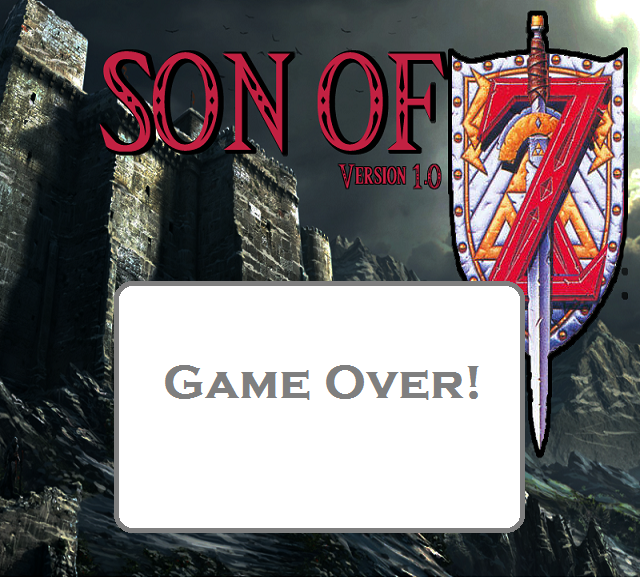
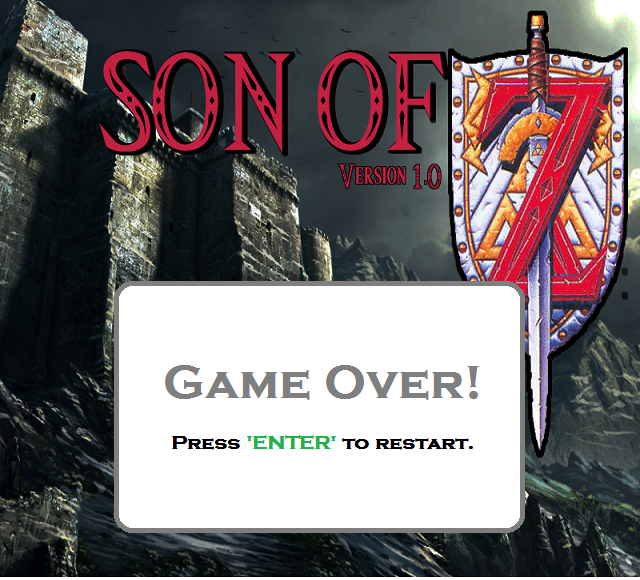
added additional menu options, tutorial screen, You died screen, option to hit 'ENTER' to restart game if your game is over.

Changed region(s): [[0.25, 0.7448, 0.75, 0.7759]]

diff --git a/dev/src/Game.java b/dev/src/Game.java
@@ -30,9 +30,9 @@ public class Game extends BasicGame {
     Image menu;
     Image gameover;
     Image startButton;
-    
-    
-    
+    Image dieScreen;
+    Image tutorial;
+    boolean restart;
     int menuState;
     String enemyRef = "data/enemies.png";
 	int numCrosses;
@@ -74,6 +74,7 @@ public class Game extends BasicGame {
 	
 	
 	public void init(GameContainer container) throws SlickException {
+		restart = false;
 		directionX = 1;
 		enemyX = 32;
 		enemyY = 32;
@@ -83,9 +84,10 @@ public class Game extends BasicGame {
 		menuState = 0;
 		numCrosses = 5;
 		numLives = 3;
-		gameover = new Image("data/gameover.png");
+		gameover = new Image("data/gameover_screen_white.png");
 		menu = new Image("data/titlescreen.png");
-		
+		dieScreen = new Image("data/deadZ.png");
+		tutorial = new Image("data/Tutorial.png");
 		//Instantiate objects for Health Status bar
 		StatusPanel = new Image("data/StatusPanel.png");
 		cross1 = new Image("data/RedCross.png");
@@ -238,7 +240,19 @@ public class Game extends BasicGame {
 			// TODO Auto-generated catch block
 			e1.printStackTrace();
 		}
-		if(container.getInput().isKeyDown(Input.KEY_N))
+		if (container.getInput().isKeyPressed(Input.KEY_T))
+		{
+			menuState = 3;
+		}
+		if (container.getInput().isKeyPressed(Input.KEY_ENTER))
+		{
+			restart = true;
+		}
+		if (container.getInput().isKeyPressed(Input.KEY_M))
+		{
+			menuState = 0;
+		}
+		if (container.getInput().isKeyPressed(Input.KEY_SPACE))
 		{
 			menuState = 1;
 		}
@@ -444,7 +458,28 @@ public class Game extends BasicGame {
 	public void render(GameContainer container, Graphics g)  {
 		
 	menu.draw();
-	
+	if(restart == true)
+	{
+		//game is reinitialized so that it's ready for a new game.
+		try 
+		{
+			container.reinit();
+		} 
+		catch (SlickException e) {
+			// TODO Auto-generated catch block
+			e.printStackTrace();
+		}
+		restart = false;
+	}
+	if(menuState == 3)
+	{
+		tutorial.draw();
+	}
+	if(menuState == 2)
+	{
+		dieScreen.draw();
+		
+	}
 	if(menuState == 1) // when 'n' is pressed menuState becomes = 1
 	{
 		BlockMap.tmap.render(0, 0);
@@ -495,6 +530,7 @@ public class Game extends BasicGame {
 			//numCrosses = 5;
 			numLives--;
 			numCrosses = 5;
+			menuState = 2;
 		}
 		else
 			numCrosses = 5;
@@ -518,16 +554,6 @@ public class Game extends BasicGame {
 		if( numLives == 0)
 		{
 			gameover.draw(); //game over screen is displayed when numLives = 0
-			
-			/*game is reinitialized so that it's ready for a new game.
-			try 
-			{
-				container.reinit();
-			} 
-			catch (SlickException e) {
-				// TODO Auto-generated catch block
-				e.printStackTrace();
-			}*/
 		}
 	}
     
